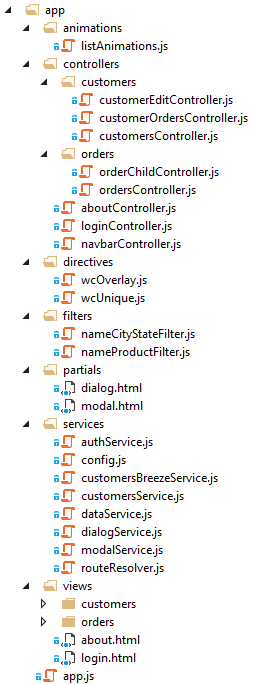
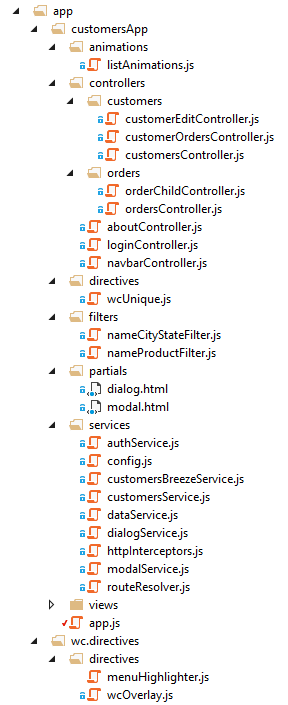
New .bat and .sh files for initializing MongoDB with data. New directive that simplifies highlighting menu items. Thanks to Karl-Gustav (https://github.com/Karl-Gustav) for the contributions!

diff --git a/CustomerManager/index.html b/CustomerManager/index.html
@@ -25,15 +25,29 @@
                 </a>
             </div>
             <div class="nav-container" data-collapse="isCollapsed">
-                <ul class="nav navbar-nav nav-pills navBarPadding">
+
+                <!-- With menu-highlighter directive -->
+                <ul class="nav navbar-nav nav-pills navBarPadding"
+                    data-menu-highlighter data-highlight-class-name="active">
+                    <li><a href="#/customers">Customers</a></li>
+                    <li><a href="#/orders">Orders</a></li>
+                    <li><a href="#/about">About</a></li>
+                    <li id="nav-login" data-ng-click="loginOrOut()">
+                        <!-- href note used but needed to compare against path in menu-highlighter -->
+                        <a data-href="#/login">{{ loginLogoutText }}</a>
+                    </li>
+                </ul>
+
+                <!-- Without menu-highlighter directive -->
+                <!--<ul class="nav navbar-nav nav-pills navBarPadding">
                     <li data-ng-class="{'active':highlight('/customers')}"><a href="#/customers">Customers</a></li>
                     <li data-ng-class="{'active':highlight('/orders')}"><a href="#/orders">Orders</a></li>
                     <li data-ng-class="{'active':highlight('/about')}"><a href="#/about">About</a></li>
                     <li data-ng-class="{'active':highlight('/login')}" id="nav-login"
                         data-ng-click="loginOrOut()">
-                        <a href="javascript:void(0);">{{ loginLogoutText }}</a>
+                        <a>{{ loginLogoutText }}</a>
                     </li>
-                </ul>
+                </ul>-->
             </div>
         </nav>
     </header>
@@ -77,6 +91,7 @@
 
     <!-- Custom scripts -->
     <script src="/app/wc.directives/directives/wcOverlay.js"></script>
+    <script src="/app/wc.directives/directives/menuHighlighter.js"></script>
     <script src="/app/customersApp/app.js"></script>
     <script src="/app/customersApp/animations/listAnimations.js"></script>
     <script src="/app/customersApp/directives/wcUnique.js"></script>
@@ -97,6 +112,7 @@
     <script src="/app/customersApp/controllers/aboutController.js"></script>
     <script src="/app/customersApp/controllers/navbarController.js"></script>
     <script src="/app/customersApp/controllers/loginController.js"></script>
+
 </body>
 </html>
 

diff --git a/CustomerManager/app/wc.directives/directives/menuHighlighter.js b/CustomerManager/app/wc.directives/directives/menuHighlighter.js
@@ -1,0 +1,56 @@
+/*
+    Thanks to Karl-Gustav for creating the autoActive directive 
+    to simplify highlighting <li> elements in a menu based on the path
+    View the original version of the autoActive directive at 
+    https://github.com/Karl-Gustav/autoActive
+
+    This version renames the directive and does some minor code restructuring and changes.
+*/
+
+(function () {
+
+    var menuHighlighter = function ($location) {
+        return {
+            restrict: 'A',
+            scope: {
+                highlightClassName: '@'
+            },
+            link: function (scope, element) {
+                function setActive() {
+                    var path = $location.path();
+                    var className = scope.highlightClassName || 'active';
+
+                    if (path) {
+                        angular.forEach(element.find('li'), function (li) {
+                            var anchor = li.querySelector('a');
+                            //Get href from href attribute or data-href in cases where href isn't used (such as login)
+                            var href = (anchor && anchor.href) ? anchor.href :
+                                                                 anchor.getAttribute('data-href').replace('#', '');
+                            //Get value after hash
+                            var trimmedHref = href.substr(href.indexOf('#/') + 1, href.length);
+                            //Convert path to same length as trimmedHref
+                            var basePath = path.substr(0, trimmedHref.length);
+                            
+                            //See if trimmedHref and basePath match. If so, then highlight that item
+                            if (trimmedHref == basePath) {
+                                angular.element(li).addClass(className);
+                            } else {
+                                angular.element(li).removeClass(className);
+                            }
+                        });
+                    }
+                }
+
+                setActive();
+
+                //Monitor location changes
+                scope.$on('$locationChangeSuccess', setActive);
+            }
+        }
+    }
+
+    menuHighlighter.$inject = ['$location'];
+
+    angular.module('wc.directives').directive('menuHighlighter', menuHighlighter);
+
+}());

diff --git a/CustomerManager/app/customersApp/app.js b/CustomerManager/app/customersApp/app.js
@@ -28,7 +28,7 @@
                 controller: 'AboutController',
                 templateUrl: viewBase + 'about.html'
             })
-            .when('/login/:redirect*', {
+            .when('/login/:redirect*?', {
                 controller: 'LoginController',
                 templateUrl: viewBase + 'login.html'
             })

diff --git a/readme.md b/readme.md
@@ -15,6 +15,7 @@ This application demonstrates:
 * Custom filters for filtering customer and product data
 * A custom directive to ensure unique values in a form for email 
 * A custom directive that intercepts $http and jQuery XHR requests (in case either are used) and displays a loading dialog
+* A custom directive that handles highlighting menu items automatically based upon the path navigated to by the user
 * Form validation using AngularJS
 * Provides login and authentication functionality (currently client-side only - plan to add server-side part too which is absolutely required in a "real" app)
 
@@ -43,7 +44,9 @@ If you don't already have Node.js on your machine install it from http://nodejs.
 
 In the CustomerManager directory execute 'npm install' to install Express, MongoDB and Mongoose (package.json).
 
-Load sample data into MongoDB by performing the following steps:
+Load MongoDB Sample Data Option 1: 
+
+Load data into MongoDB by performing the following steps:
 
 * Execute 'mongod' to start the MongoDB daemon
 * Navigate to the CustomerManager/server directory (the one that has initMongoData.js in it)
@@ -51,6 +54,13 @@ Load sample data into MongoDB by performing the following steps:
 * Enter the following in the mongo shell to load the data seed file:
  * use customermanager
  * load("initMongoData.js")
+
+Load Sample Data Option 2: 
+
+Alternatively you can navigate to CustomerManager/server and double-click the initMongoData.bat (Windows) or initMongoData.sh (Mac/Linux) file to initialize MongoDB with the data. 
+
+The Windows script assumes that MongoDB is installed at c:\mongodb while the Linux/Mac script relies on the fact that you have the monogo executable
+in the path.
 
 Start the Node/Express server:
 
